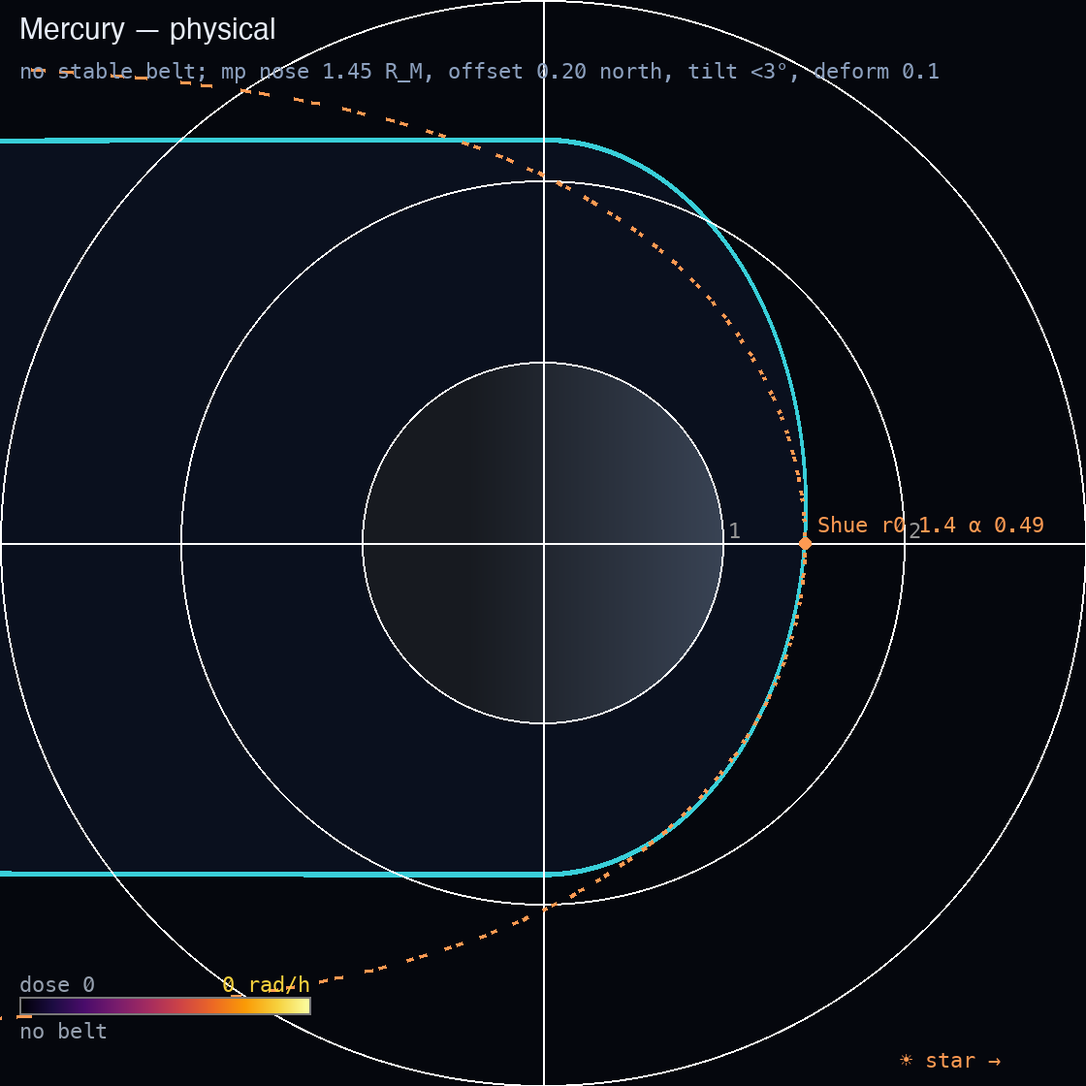
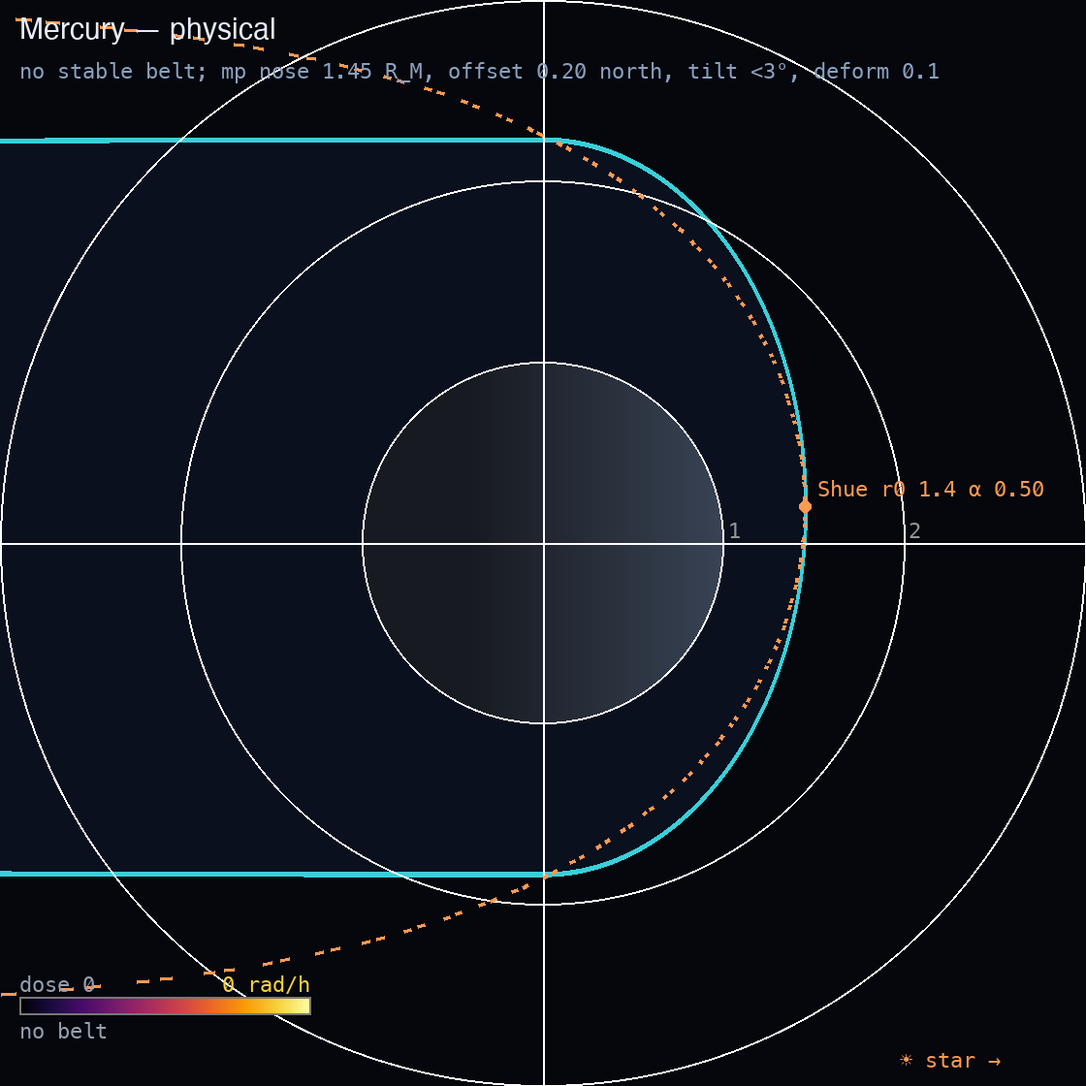
belts: retract the "giants aren't Shue-fitted" claim, ground Jupiter, offset the overlay
Retraction first. Last commit asserted that giant magnetopauses are never fitted
in the Shue form. That is wrong. Arridge 2006 fits Saturn's magnetopause with
exactly the Shue 1997 functional form, and Rutala 2025 (Juno-era, arXiv
2502.09186) fits Jupiter's with a modified one they call S97*, publishing
alpha = 0.28 + 1.08 p_SW and r_SS = 38.0 p_SW^-0.25 R_J in their Table 2.

The correction also reverses my reasoning about the value. I called alpha ~0.26
"backwards" because it is less flared than Earth's 0.58 — but Jupiter's fitted
alpha runs 0.31-0.42 across the observed pressure range, genuinely below Earth's:
a rotation-dominated, plasma-inflated magnetosphere is closer to an axisymmetric
ellipsoid. What was wrong was never the size of the number, only its provenance:
pause_compression is an authoring choice with no fit behind it.

So the methodology doc now carries a fitted-alpha table (Earth, Mercury, Jupiter
with values; Saturn as "fit exists, coefficients paywalled"; ice giants none),
and Jupiter's viewer preset shows the curve at alpha 0.423, the S97* value at our
adopted 63 R_J standoff. The PNG renderer no longer falls back to the compression
conversion at all — no grounded alpha, no curve.

Second request: geomagnetic_offset now also moves the Shue overlay, in both the
renderer and the viewer, so it shares the origin the pause SDF is evaluated from.
Mercury is the visible case (0.20 R_M north), where the reference curve and the
[…]

Changed region(s): [[0.7188, 0.4375, 0.8438, 0.5625], [0.875, 0.4375, 0.9688, 0.5]]

diff --git a/docs/belt-viewer.html b/docs/belt-viewer.html
@@ -319,7 +319,7 @@ const state={
   view:{R:8,tilt:0,z:0,shue:0,shue_r0:0,shue_L:0,offset:0}
 };
 
-const PRESETS={"jupiter_stock": {"label": "목성", "label_en": "Jupiter", "group": "stock", "view": {"R": 16, "tilt": 10.3, "z": 0, "offset": 0}, "inner": {"radiation": 300, "grad": 3.3, "dist": 6.0, "rad": 1.0, "comp": 1.05, "ext": 0.9}, "outer": {"radiation": 50, "grad": 2.2, "dist": 6.5, "rad": 6.5, "comp": 1.05, "ext": 0.85}, "pause": {"radiation": -0.01, "rad": 60, "comp": 1.05, "ext": 0.01, "hscale": 1.02}, "sys": "sol", "sys_label": "태양계", "sys_label_en": "Solar System", "body_key": "jupiter", "variant": "stock", "depth": 0}, "jupiter_phys": {"label": "목성", "label_en": "Jupiter", "group": "phys", "view": {"R": 18, "tilt": 10.3, "z": 0, "offset": 0.1}, "inner": {"radiation": 1500, "grad": 2.24, "dist": 1.3435, "rad": 1.159, "dxy": 0.693, "comp": 1.0, "ext": 1.0, "bdist": 0.0003, "brad": 0.8889, "bdxy": 0.5866}, "outer": {"radiation": 150, "grad": 2.15, "dist": 3.2565, "rad": 3.2269, "dxy": 0.1483, "comp": 1.0, "ext": 0.998, "bdist": 0.0001, "brad": 4.238, "bdxy": 1.85}, "pause": {"radiation": -0.01, "rad": 75.6, "comp": 1.2, "ext": 0.05, "hscale": 1.15}, "sys": "sol", "sys_label": "태양계", "sys_label_en": "Solar System", "body_key": "jupiter", "variant": "phys", "depth": 0}, "saturn_stock": {"label": "토성", "label_en": "Saturn", "group": "stock", "view": {"R": 16, "tilt": 0, "z": 0, "offset": 0}, "inner": {"on": false, "radiation": 0, "dist": 1, "rad": 0.5}, "outer": {"radiation": 150, "grad": 2.2, "dist": 7.0, "rad": 7.0, "comp": 1.05, "ext": 0.95}, "pause": {"radiation": -0.011, "rad": 20, "comp": 1.02, "ext": 0.1, "hscale": 1.0}, "sys": "sol", "sys_label": "태양계", "sys_label_en": "Solar System", "body_key": "saturn", "variant": "stock", "depth": 0}, "saturn_phys": {"label": "토성", "label_en": "Saturn", "group": "phys", "view": {"R": 16, "tilt": 0.01, "z": 0, "offset": 0}, "inner": {"on": false, "radiation": 0, "dist": 1, "rad": 0.5}, "outer": {"radiation": 10, "grad": 2.15, "dist": 2.6173, "rad": 2.3184, "dxy": 0.6735, "comp": 1.0, "ext": 0.998, "bdist": 0.9889, "brad": 0.8883, "bdxy": 0.6616}, "pause": {"radiation": -0.011, "rad": 28.8, "comp": 1.2, "ext": 0.05, "hscale": 1.1}, "sys": "sol", "sys_label": "태양계", "sys_label_en": "Solar System", "body_key": "saturn", "variant": "phys", "depth": 0}, "uranus_stock": {"label": "천왕성", "label_en": "Uranus", "group": "stock", "view": {"R": 22, "tilt": 58.6, "z": 0, "offset": 0.3}, "inner": {"on": false, "radiation": 0, "dist": 1, "rad": 0.5}, "outer": {"radiation": 4, "grad": 2.2, "dist": 7.0, "rad": 7.0, "comp": 1.05, "ext": 0.95}, "pause": {"radiation": -0.01, "rad": 20, "comp": 1.02, "ext": 0.1, "hscale": 1.0}, "sys": "sol", "sys_label": "태양계", "sys_label_en": "Solar System", "body_key": "uranus", "variant": "stock", "depth": 0}, "uranus_phys": {"label": "천왕성", "label_en": "Uranus", "group": "phys", "view": {"R": 22, "tilt": 59, "z": 0, "offset": 0.3}, "inner": {"radiation": 40, "grad": 1.57, "dist": 2.1836, "rad": 1.93, "dxy": 0.6732, "comp": 1.001, "ext": 0.997, "bdist": 0.0563, "brad": 0.8488, "bdxy": 0.3727}, "outer": {"radiation": 8, "grad": 1.85, "dist": 4.3078, "rad": 3.8644, "dxy": 0.6644, "comp": 1.005, "ext": 0.977, "bdist": 2.3256, "brad": 1.9463, "bdxy": 0.7307}, "pause": {"radiation": -0.01, "rad": 21.6, "comp": 1.2, "ext": 0.1, "hscale": 1.1}, "sys": "sol", "sys_label": "태양계", "sys_label_en": "Solar System", "body_key": "uranus", "variant": "phys", "depth": 0}, "neptune_stock": {"label": "해왕성", "label_en": "Neptune", "group": "stock", "view": {"R": 28, "tilt": 47, "z": 0, "offset": 0.55}, "inner": {"on": false, "radiation": 0, "dist": 1, "rad": 0.5}, "outer": {"radiation": 2.5, "grad": 2.2, "dist": 7.0, "rad": 7.0, "comp": 1.05, "ext": 0.95}, "pause": {"radiation": -0.007, "rad": 20, "comp": 1.02, "ext": 0.1, "hscale": 1.0}, "sys": "sol", "sys_label": "태양계", "sys_label_en": "Solar System", "body_key": "neptune", "variant": "stock", "depth": 0}, "neptune_phys": {"label": "해왕성", "label_en": "Neptune", "group": "phys", "view": {"R": 28, "tilt": 47, "z": 0, "offset": 0.55}, "inner": {"radiation": 30, "grad": 2.09, "dist": 2.1836, "rad": 1.93, "dxy": 0.6732, "comp": 1.0, "ext": 0.999, "bdist": 0.0563, "brad": 0.8488, "bdxy": 0.3727}, "outer": {"radiation": 6, "grad": 2.63, "dist": 5.9998, "rad": 5.4076, "dxy": 0.6573, "comp": 1.004, "ext": 0.98, "bdist": 2.5862, "brad": 1.9982, "bdxy": 0.8656}, "pause": {"radiation": -0.007, "rad": 31.8, "comp": 1.2, "ext": 0.08, "hscale": 1.1}, "sys": "sol", "sys_label": "태양계", "sys_label_en": "Solar System", "body_key": "neptune", "variant": "phys", "depth": 0}, "mercury_stock": {"label": "수성", "label_en": "Mercury", "group": "stock", "view": {"R": 3, "tilt": 6, "z": 0, "offset": 0.208}, "inner": {"on": false, "radiation": 0, "dist": 1, "rad": 0.5}, "outer": {"on": false, "radiation": 0, "dist": 1, "rad": 0.5}, "pause": {"radiation": -0.001, "rad": 1.6, "comp": 1.4, "ext": 0.05, "hscale": 1.0, "deform": 0.1}, "sys": "sol", "sys_label": "태양계", "sys_label_en": "Solar System", "body_key": "mercury", "variant": "stock", "depth": 0}, "mercury_phys": {"label": "수성", "label_en": "Mercury", "group": "phys", "view": {"R": 3, "tilt": 2, "z": 0, "offset": 0.2, "shue": 0.5, "shue_r0": 1.45, "shue_L": 0}, "inner": {"on": false, "radiation": 0, "dist": 1, "rad": 0.5}, "outer": {"on": false, "radiation": 0, "dist": 1, "rad": 0.5}, "pause": {"radiation": -0.001, "rad": 2.03, "comp": 1.4, "ext": 0.05, "hscale": 1.0, "deform": 0.1}, "sys": "sol", "sys_label": "태양계", "sys_label_en": "Solar System", "body_key": "mercury", "variant": "phys", "depth": 0, "shue_src": "Winslow 2013 (MESSENGER, Shue 형식 적합: R_ss 1.45 R_M, α 0.5)"}, "earth_stock": {"label": "지구", "label_en": "Earth", "group": "stock", "view": {"R": 12, "tilt": 11, "z": 0, "offset": 0}, "inner": {"radiation": 10.376, "grad": 3.3, "dist": 0.813, "rad": 0.7, "dxy": 0.572, "comp": 1.01, "ext": 1.0, "bdist": 0.0001, "brad": 0.915, "bdxy": 0.5}, "outer": {"radiation": 2.214, "grad": 2.2, "dist": 2.6338, "rad": 2.48, "dxy": 0.7225, "comp": 1.01, "ext": 1.0, "bdist": 1.4412, "brad": 1.4875, "bdxy": 0.7225}, "pause": {"radiation": -0.01, "rad": 15, "comp": 1.5, "ext": 0.075, "hscale": 1.1}, "sys": "sol", "sys_label": "태양계", "sys_label_en": "Solar System", "body_key": "earth", "variant": "stock", "depth": 0}, "earth_phys": {"label": "지구", "label_en": "Earth", "group": "phys", "view": {"R": 12, "tilt": 11, "z": 0, "offset": 0, "shue": 0.58, "shue_r0": 10, "shue_L": 200}, "inner": {"radiation": 10.376, "grad": 2.09, "dist": 0.9413, "rad": 0.7698, "dxy": 0.7314, "comp": 1.001, "ext": 0.999, "bdist": 0.0001, "brad": 1.1836, "bdxy": 1.0505}, "outer": {"radiation": 2.214, "grad": 2.15, "dist": 3.0123, "rad": 2.7018, "dxy": 0.662, "comp": 1.025, "ext": 0.953, "bdist": 1.3175, "brad": 1.1596, "bdxy": 0.6748}, "pause": {"radiation": -0.01, "rad": 15, "comp": 1.5, "ext": 0.075, "hscale": 1.1}, "sys": "sol", "sys_label": "태양계", "sys_label_en": "Solar System", "body_key": "earth", "variant": "phys", "depth": 0, "shue_src": "Shue 1998"}, "ganymede_stock": {"label": "가니메데", "label_en": "Ganymede", "group": "stock", "view": {"R": 4, "tilt": 4, "z": 0, "offset": 0}, "inner": {"radiation": 0.33, "grad": 3.3, "dist": 0.8, "rad": 0.6}, "outer": {"on": false, "radiation": 0, "dist": 1, "rad": 0.5}, "pause": {"on": false, "rad": 5}, "sys": "sol", "sys_label": "태양계", "sys_label_en": "Solar System", "body_key": "ganymede", "variant": "stock", "depth": 0}, "ganymede_phys": {"label": "가니메데", "label_en": "Ganymede", "group": "phys", "view": {"R": 4, "tilt": 4, "z": 0, "offset": 0}, "inner": {"radiation": 0.33, "grad": 2.09, "dist": 0.8758, "rad": 0.7327, "dxy": 0.715, "comp": 1.052, "ext": 0.958, "bdist": 0.0222, "brad": 0.9408, "bdxy": 0.8693}, "outer": {"on": false, "radiation": 0, "dist": 1, "rad": 0.5}, "pause": {"radiation": -0.01, "rad": 2.75, "comp": 1.375, "ext": 0.7, "hscale": 1.0}, "sys": "sol", "sys_label": "태양계", "sys_label_en": "Solar System", "body_key": "ganymede", "variant": "phys", "depth": 0}, "polyphemus": {"label": "Polyphemus", "label_en": "Polyphemus", "group": "nearstars", "sys": "alpha_centauri", "sys_label": "알파 센타우리", "sys_label_en": "Alpha Centauri", "depth": 0, "desig": "Polyphemus", "body_key": "polyphemus", "variant": null, "parent": null, "inner": {"dist": 1.3793, "rad": 1.159, "dxy": 0.7142, "comp": 1.0, "ext": 1.0, "bdist": 0.2656, "brad": 0.7491, "bdxy": 0.6384, "radiation": 300, "grad": 1.65}, "outer": {"dist": 4.2824, "rad": 3.8588, "dxy": 0.659, "comp": 1.002, "ext": 0.989, "bdist": 2.0738, "brad": 1.6687, "bdxy": 0.8079, "radiation": 30, "grad": 2.15}, "pause": {"on": true, "rad": 28.2, "comp": 1.2, "ext": 0.05, "hscale": 1.1, "deform": 0, "dscale": 1, "radiation": -0.01}, "view": {"R": 12, "tilt": 10, "z": 0, "offset": 0}}, "pandora": {"label": "Pandora", "label_en": "Pandora", "group": "nearstars", "sys": "alpha_centauri", "sys_label": "알파 센타우리", "sys_label_en": "Alpha Centauri", "depth": 1, "desig": "Alpha Centauri A b III", "body_key": "pandora", "variant": null, "parent": "Alpha Centauri A b", "inner": {"dist": 1.0193, "rad": 0.8489, "dxy": 0.7196, "comp": 1.015, "ext": 0.961, "bdist": 0.0971, "brad": 0.9349, "bdxy": 0.8829, "radiation": 4.0, "grad": 2.09}, "outer": {"on": false, "radiation": 0, "dist": 1, "rad": 0.5}, "pause": {"on": true, "rad": 2.99, "comp": 1.15, "ext": 0.6, "hscale": 1, "deform": 0, "dscale": 1, "radiation": -0.01}, "view": {"R": 5, "tilt": 10, "z": 0, "offset": 0}}, "proxima cen c": {"label": "Proxima Cen c", "label_en": "Proxima Cen c", "group": "nearstars", "sys": "proxima_cen", "sys_label": "프록시마 센타우리", "sys_label_en": "Proxima Centauri", "depth": 0, "desig": "Proxima Centauri c", "body_key": "proxima_cen_c", "variant": null, "parent": null, "inner": {"dist": 1.5, "rad": 0.86, "dxy": 0.66, "comp": 1.002, "ext": 0.997, "bdist": 0.0001, "brad": 1.0, "bdxy": 0.5, "deform": 0.115, "radiation": 8.0, "grad": 2.09}, "outer": {"dist": 2.8, "rad": 2.5, "dxy": 0.66, "comp": 1.01, "ext": 0.979, "bdist": 1.54, "brad": 1.42, "bdxy": 0.66, "deform": 0.5, "radiation": 1.2, "grad": 2.15}, "pause": {"on": true, "rad": 16.84, "comp": 1.414, "ext": 0.135, "hscale": 1.0, "deform": 0, "dscale": 1, "radiation": -0.01}, "view": {"R": 8, "tilt": 50, "z": 0, "offset": 0.4, "shue": 0.5, "shue_r0": 11.905, "shue_L": 125}}, "proxima_cen_d": {"label": "Proxima Cen d", "label_en": "Proxima Cen d", "group": "nearstars", "view": {"R": 12, "tilt": 10, "z": 0, "offset": 0}, "inner": {"radiation": 5000, "grad": 2.09, "dist": 0.9413, "rad": 0.7698, "dxy": 0.7314, "comp": 1.002, "ext": 0.996, "bdist": 0.0001, "brad": 1.0, "bdxy": 1.0}, "outer": {"radiation": 1000, "grad": 2.15, "dist": 2.7, "rad": 2.3, "dxy": 0.662, "comp": 1.053, "ext": 0.901, "bdist": 1.2, "brad": 1.0, "bdxy": 0.6748}, "pause": {"radiation": -0.01, "rad": 10.5, "comp": 1.5, "ext": 0.075, "hscale": 1.1}, "sys": "proxima_cen", "sys_label": "프록시마 센타우리", "sys_label_en": "Proxima Centauri", "body_key": "proxima_cen_d", "variant": null, "depth": 0, "desig": "Proxima Centauri d"}, "shueDemo": {"label": "Shue 데모", "label_en": "Shue demo", "group": "demo", "view": {"R": 210, "tilt": 0, "z": 0, "offset": 0, "shue": 0.58}, "inner": {"radiation": 10.376, "grad": 2.09, "dist": 0.9413, "rad": 0.7698, "dxy": 0.7314, "comp": 1.001, "ext": 0.999, "bdist": 0.0001, "brad": 1.1836, "bdxy": 1.0505}, "outer": {"radiation": 2.214, "grad": 2.15, "dist": 3.0123, "rad": 2.7018, "dxy": 0.662, "comp": 1.025, "ext": 0.953, "bdist": 1.3175, "brad": 1.1596, "bdxy": 0.6748}, "pause": {"radiation": -0.01, "rad": 15, "comp": 1.5, "ext": 0.075, "hscale": 1.1, "alpha": 0.35}, "sys": "demo", "sys_label": "데모", "sys_label_en": "Demo", "depth": 0, "body_key": "shue_demo", "variant": null}};
+const PRESETS={"jupiter_stock": {"label": "목성", "label_en": "Jupiter", "group": "stock", "view": {"R": 16, "tilt": 10.3, "z": 0, "offset": 0}, "inner": {"radiation": 300, "grad": 3.3, "dist": 6.0, "rad": 1.0, "comp": 1.05, "ext": 0.9}, "outer": {"radiation": 50, "grad": 2.2, "dist": 6.5, "rad": 6.5, "comp": 1.05, "ext": 0.85}, "pause": {"radiation": -0.01, "rad": 60, "comp": 1.05, "ext": 0.01, "hscale": 1.02}, "sys": "sol", "sys_label": "태양계", "sys_label_en": "Solar System", "body_key": "jupiter", "variant": "stock", "depth": 0}, "jupiter_phys": {"label": "목성", "label_en": "Jupiter", "group": "phys", "view": {"R": 18, "tilt": 10.3, "z": 0, "offset": 0.1, "shue": 0.423, "shue_r0": 63, "shue_L": 0}, "inner": {"radiation": 1500, "grad": 2.24, "dist": 1.3435, "rad": 1.159, "dxy": 0.693, "comp": 1.0, "ext": 1.0, "bdist": 0.0003, "brad": 0.8889, "bdxy": 0.5866}, "outer": {"radiation": 150, "grad": 2.15, "dist": 3.2565, "rad": 3.2269, "dxy": 0.1483, "comp": 1.0, "ext": 0.998, "bdist": 0.0001, "brad": 4.238, "bdxy": 1.85}, "pause": {"radiation": -0.01, "rad": 75.6, "comp": 1.2, "ext": 0.05, "hscale": 1.15, "shue_alpha": 0.423, "shue_nose": 63}, "sys": "sol", "sys_label": "태양계", "sys_label_en": "Solar System", "body_key": "jupiter", "variant": "phys", "depth": 0, "shue_src": "Rutala 2025 S97* (α=0.28+1.08·p_SW, 노즈 63 R_J ⇒ p 0.132 nPa)"}, "saturn_stock": {"label": "토성", "label_en": "Saturn", "group": "stock", "view": {"R": 16, "tilt": 0, "z": 0, "offset": 0}, "inner": {"on": false, "radiation": 0, "dist": 1, "rad": 0.5}, "outer": {"radiation": 150, "grad": 2.2, "dist": 7.0, "rad": 7.0, "comp": 1.05, "ext": 0.95}, "pause": {"radiation": -0.011, "rad": 20, "comp": 1.02, "ext": 0.1, "hscale": 1.0}, "sys": "sol", "sys_label": "태양계", "sys_label_en": "Solar System", "body_key": "saturn", "variant": "stock", "depth": 0}, "saturn_phys": {"label": "토성", "label_en": "Saturn", "group": "phys", "view": {"R": 16, "tilt": 0.01, "z": 0, "offset": 0}, "inner": {"on": false, "radiation": 0, "dist": 1, "rad": 0.5}, "outer": {"radiation": 10, "grad": 2.15, "dist": 2.6173, "rad": 2.3184, "dxy": 0.6735, "comp": 1.0, "ext": 0.998, "bdist": 0.9889, "brad": 0.8883, "bdxy": 0.6616}, "pause": {"radiation": -0.011, "rad": 28.8, "comp": 1.2, "ext": 0.05, "hscale": 1.1}, "sys": "sol", "sys_label": "태양계", "sys_label_en": "Solar System", "body_key": "saturn", "variant": "phys", "depth": 0}, "uranus_stock": {"label": "천왕성", "label_en": "Uranus", "group": "stock", "view": {"R": 22, "tilt": 58.6, "z": 0, "offset": 0.3}, "inner": {"on": false, "radiation": 0, "dist": 1, "rad": 0.5}, "outer": {"radiation": 4, "grad": 2.2, "dist": 7.0, "rad": 7.0, "comp": 1.05, "ext": 0.95}, "pause": {"radiation": -0.01, "rad": 20, "comp": 1.02, "ext": 0.1, "hscale": 1.0}, "sys": "sol", "sys_label": "태양계", "sys_label_en": "Solar System", "body_key": "uranus", "variant": "stock", "depth": 0}, "uranus_phys": {"label": "천왕성", "label_en": "Uranus", "group": "phys", "view": {"R": 22, "tilt": 59, "z": 0, "offset": 0.3}, "inner": {"radiation": 40, "grad": 1.57, "dist": 2.1836, "rad": 1.93, "dxy": 0.6732, "comp": 1.001, "ext": 0.997, "bdist": 0.0563, "brad": 0.8488, "bdxy": 0.3727}, "outer": {"radiation": 8, "grad": 1.85, "dist": 4.3078, "rad": 3.8644, "dxy": 0.6644, "comp": 1.005, "ext": 0.977, "bdist": 2.3256, "brad": 1.9463, "bdxy": 0.7307}, "pause": {"radiation": -0.01, "rad": 21.6, "comp": 1.2, "ext": 0.1, "hscale": 1.1}, "sys": "sol", "sys_label": "태양계", "sys_label_en": "Solar System", "body_key": "uranus", "variant": "phys", "depth": 0}, "neptune_stock": {"label": "해왕성", "label_en": "Neptune", "group": "stock", "view": {"R": 28, "tilt": 47, "z": 0, "offset": 0.55}, "inner": {"on": false, "radiation": 0, "dist": 1, "rad": 0.5}, "outer": {"radiation": 2.5, "grad": 2.2, "dist": 7.0, "rad": 7.0, "comp": 1.05, "ext": 0.95}, "pause": {"radiation": -0.007, "rad": 20, "comp": 1.02, "ext": 0.1, "hscale": 1.0}, "sys": "sol", "sys_label": "태양계", "sys_label_en": "Solar System", "body_key": "neptune", "variant": "stock", "depth": 0}, "neptune_phys": {"label": "해왕성", "label_en": "Neptune", "group": "phys", "view": {"R": 28, "tilt": 47, "z": 0, "offset": 0.55}, "inner": {"radiation": 30, "grad": 2.09, "dist": 2.1836, "rad": 1.93, "dxy": 0.6732, "comp": 1.0, "ext": 0.999, "bdist": 0.0563, "brad": 0.8488, "bdxy": 0.3727}, "outer": {"radiation": 6, "grad": 2.63, "dist": 5.9998, "rad": 5.4076, "dxy": 0.6573, "comp": 1.004, "ext": 0.98, "bdist": 2.5862, "brad": 1.9982, "bdxy": 0.8656}, "pause": {"radiation": -0.007, "rad": 31.8, "comp": 1.2, "ext": 0.08, "hscale": 1.1}, "sys": "sol", "sys_label": "태양계", "sys_label_en": "Solar System", "body_key": "neptune", "variant": "phys", "depth": 0}, "mercury_stock": {"label": "수성", "label_en": "Mercury", "group": "stock", "view": {"R": 3, "tilt": 6, "z": 0, "offset": 0.208}, "inner": {"on": false, "radiation": 0, "dist": 1, "rad": 0.5}, "outer": {"on": false, "radiation": 0, "dist": 1, "rad": 0.5}, "pause": {"radiation": -0.001, "rad": 1.6, "comp": 1.4, "ext": 0.05, "hscale": 1.0, "deform": 0.1}, "sys": "sol", "sys_label": "태양계", "sys_label_en": "Solar System", "body_key": "mercury", "variant": "stock", "depth": 0}, "mercury_phys": {"label": "수성", "label_en": "Mercury", "group": "phys", "view": {"R": 3, "tilt": 2, "z": 0, "offset": 0.2, "shue": 0.5, "shue_r0": 1.45, "shue_L": 0}, "inner": {"on": false, "radiation": 0, "dist": 1, "rad": 0.5}, "outer": {"on": false, "radiation": 0, "dist": 1, "rad": 0.5}, "pause": {"radiation": -0.001, "rad": 2.03, "comp": 1.4, "ext": 0.05, "hscale": 1.0, "deform": 0.1, "shue_alpha": 0.5, "shue_nose": 1.45}, "sys": "sol", "sys_label": "태양계", "sys_label_en": "Solar System", "body_key": "mercury", "variant": "phys", "depth": 0, "shue_src": "Winslow 2013 (MESSENGER 통과 적합: R_ss 1.45 R_M, α 0.5)"}, "earth_stock": {"label": "지구", "label_en": "Earth", "group": "stock", "view": {"R": 12, "tilt": 11, "z": 0, "offset": 0}, "inner": {"radiation": 10.376, "grad": 3.3, "dist": 0.813, "rad": 0.7, "dxy": 0.572, "comp": 1.01, "ext": 1.0, "bdist": 0.0001, "brad": 0.915, "bdxy": 0.5}, "outer": {"radiation": 2.214, "grad": 2.2, "dist": 2.6338, "rad": 2.48, "dxy": 0.7225, "comp": 1.01, "ext": 1.0, "bdist": 1.4412, "brad": 1.4875, "bdxy": 0.7225}, "pause": {"radiation": -0.01, "rad": 15, "comp": 1.5, "ext": 0.075, "hscale": 1.1}, "sys": "sol", "sys_label": "태양계", "sys_label_en": "Solar System", "body_key": "earth", "variant": "stock", "depth": 0}, "earth_phys": {"label": "지구", "label_en": "Earth", "group": "phys", "view": {"R": 12, "tilt": 11, "z": 0, "offset": 0, "shue": 0.58, "shue_r0": 10, "shue_L": 200}, "inner": {"radiation": 10.376, "grad": 2.09, "dist": 0.9413, "rad": 0.7698, "dxy": 0.7314, "comp": 1.001, "ext": 0.999, "bdist": 0.0001, "brad": 1.1836, "bdxy": 1.0505}, "outer": {"radiation": 2.214, "grad": 2.15, "dist": 3.0123, "rad": 2.7018, "dxy": 0.662, "comp": 1.025, "ext": 0.953, "bdist": 1.3175, "brad": 1.1596, "bdxy": 0.6748}, "pause": {"radiation": -0.01, "rad": 15, "comp": 1.5, "ext": 0.075, "hscale": 1.1, "shue_alpha": 0.58, "shue_nose": 10, "shue_tail": 200}, "sys": "sol", "sys_label": "태양계", "sys_label_en": "Solar System", "body_key": "earth", "variant": "phys", "depth": 0, "shue_src": "Shue 1998"}, "ganymede_stock": {"label": "가니메데", "label_en": "Ganymede", "group": "stock", "view": {"R": 4, "tilt": 4, "z": 0, "offset": 0}, "inner": {"radiation": 0.33, "grad": 3.3, "dist": 0.8, "rad": 0.6}, "outer": {"on": false, "radiation": 0, "dist": 1, "rad": 0.5}, "pause": {"on": false, "rad": 5}, "sys": "sol", "sys_label": "태양계", "sys_label_en": "Solar System", "body_key": "ganymede", "variant": "stock", "depth": 0}, "ganymede_phys": {"label": "가니메데", "label_en": "Ganymede", "group": "phys", "view": {"R": 4, "tilt": 4, "z": 0, "offset": 0}, "inner": {"radiation": 0.33, "grad": 2.09, "dist": 0.8758, "rad": 0.7327, "dxy": 0.715, "comp": 1.052, "ext": 0.958, "bdist": 0.0222, "brad": 0.9408, "bdxy": 0.8693}, "outer": {"on": false, "radiation": 0, "dist": 1, "rad": 0.5}, "pause": {"radiation": -0.01, "rad": 2.75, "comp": 1.375, "ext": 0.7, "hscale": 1.0}, "sys": "sol", "sys_label": "태양계", "sys_label_en": "Solar System", "body_key": "ganymede", "variant": "phys", "depth": 0}, "polyphemus": {"label": "Polyphemus", "label_en": "Polyphemus", "group": "nearstars", "sys": "alpha_centauri", "sys_label": "알파 센타우리", "sys_label_en": "Alpha Centauri", "depth": 0, "desig": "Polyphemus", "body_key": "polyphemus", "variant": null, "parent": null, "inner": {"dist": 1.3793, "rad": 1.159, "dxy": 0.7142, "comp": 1.0, "ext": 1.0, "bdist": 0.2656, "brad": 0.7491, "bdxy": 0.6384, "radiation": 300, "grad": 1.65}, "outer": {"dist": 4.2824, "rad": 3.8588, "dxy": 0.659, "comp": 1.002, "ext": 0.989, "bdist": 2.0738, "brad": 1.6687, "bdxy": 0.8079, "radiation": 30, "grad": 2.15}, "pause": {"on": true, "rad": 28.2, "comp": 1.2, "ext": 0.05, "hscale": 1.1, "deform": 0, "dscale": 1, "radiation": -0.01}, "view": {"R": 12, "tilt": 10, "z": 0, "offset": 0}}, "pandora": {"label": "Pandora", "label_en": "Pandora", "group": "nearstars", "sys": "alpha_centauri", "sys_label": "알파 센타우리", "sys_label_en": "Alpha Centauri", "depth": 1, "desig": "Alpha Centauri A b III", "body_key": "pandora", "variant": null, "parent": "Alpha Centauri A b", "inner": {"dist": 1.0193, "rad": 0.8489, "dxy": 0.7196, "comp": 1.015, "ext": 0.961, "bdist": 0.0971, "brad": 0.9349, "bdxy": 0.8829, "radiation": 4.0, "grad": 2.09}, "outer": {"on": false, "radiation": 0, "dist": 1, "rad": 0.5}, "pause": {"on": true, "rad": 2.99, "comp": 1.15, "ext": 0.6, "hscale": 1, "deform": 0, "dscale": 1, "radiation": -0.01}, "view": {"R": 5, "tilt": 10, "z": 0, "offset": 0}}, "proxima cen c": {"label": "Proxima Cen c", "label_en": "Proxima Cen c", "group": "nearstars", "sys": "proxima_cen", "sys_label": "프록시마 센타우리", "sys_label_en": "Proxima Centauri", "depth": 0, "desig": "Proxima Centauri c", "body_key": "proxima_cen_c", "variant": null, "parent": null, "inner": {"dist": 1.5, "rad": 0.86, "dxy": 0.66, "comp": 1.002, "ext": 0.997, "bdist": 0.0001, "brad": 1.0, "bdxy": 0.5, "deform": 0.115, "radiation": 8.0, "grad": 2.09}, "outer": {"dist": 2.8, "rad": 2.5, "dxy": 0.66, "comp": 1.01, "ext": 0.979, "bdist": 1.54, "brad": 1.42, "bdxy": 0.66, "deform": 0.5, "radiation": 1.2, "grad": 2.15}, "pause": {"on": true, "rad": 16.84, "comp": 1.414, "ext": 0.135, "hscale": 1.0, "deform": 0, "dscale": 1, "radiation": -0.01}, "view": {"R": 8, "tilt": 50, "z": 0, "offset": 0.4, "shue": 0.5, "shue_r0": 11.905, "shue_L": 125}}, "proxima_cen_d": {"label": "Proxima Cen d", "label_en": "Proxima Cen d", "group": "nearstars", "view": {"R": 12, "tilt": 10, "z": 0, "offset": 0}, "inner": {"radiation": 5000, "grad": 2.09, "dist": 0.9413, "rad": 0.7698, "dxy": 0.7314, "comp": 1.002, "ext": 0.996, "bdist": 0.0001, "brad": 1.0, "bdxy": 1.0}, "outer": {"radiation": 1000, "grad": 2.15, "dist": 2.7, "rad": 2.3, "dxy": 0.662, "comp": 1.053, "ext": 0.901, "bdist": 1.2, "brad": 1.0, "bdxy": 0.6748}, "pause": {"radiation": -0.01, "rad": 10.5, "comp": 1.5, "ext": 0.075, "hscale": 1.1}, "sys": "proxima_cen", "sys_label": "프록시마 센타우리", "sys_label_en": "Proxima Centauri", "body_key": "proxima_cen_d", "variant": null, "depth": 0, "desig": "Proxima Centauri d"}, "shueDemo": {"label": "Shue 데모", "label_en": "Shue demo", "group": "demo", "view": {"R": 210, "tilt": 0, "z": 0, "offset": 0, "shue": 0.58}, "inner": {"radiation": 10.376, "grad": 2.09, "dist": 0.9413, "rad": 0.7698, "dxy": 0.7314, "comp": 1.001, "ext": 0.999, "bdist": 0.0001, "brad": 1.1836, "bdxy": 1.0505}, "outer": {"radiation": 2.214, "grad": 2.15, "dist": 3.0123, "rad": 2.7018, "dxy": 0.662, "comp": 1.025, "ext": 0.953, "bdist": 1.3175, "brad": 1.1596, "bdxy": 0.6748}, "pause": {"radiation": -0.01, "rad": 15, "comp": 1.5, "ext": 0.075, "hscale": 1.1, "shue_alpha": 0.58, "shue_nose": 10, "shue_tail": 200, "alpha": 0.35}, "sys": "demo", "sys_label": "데모", "sys_label_en": "Demo", "depth": 0, "body_key": "shue_demo", "variant": null}};
 
 // ---- control definitions ----
 const F=(k,label,min,max,step,label_en)=>({k,label,min,max,step,label_en});
@@ -594,6 +594,7 @@ function render(){
     // 고정 앵커(보드 ⚗ pause_nose/tail)가 있으면 그 물리값 사용 — pause 슬라이더를 움직여도 Shue 기준은 불변
     const fixed=state.view.shue_r0>0;
     const nose=fixed?state.view.shue_r0:P.rad/P.comp-(P.off||0);
+    const oy=c-(state.view.offset||0)*ppr;   // 계면 SDF 와 같은 원점 — geomagnetic_offset 적용
     if(nose>0.3){
       const L=(fixed&&state.view.shue_L>0)?state.view.shue_L:P.rad/P.ext+(P.off||0);
       const m=1;                          // 테이퍼 m=1 고정 (기저형, 노브 없음 — 오너 확정 2026-07-23)
@@ -611,7 +612,7 @@ function render(){
         for(let deg=-150;deg<=150;deg+=2){
           const th=deg*Math.PI/180;
           const rr2=nose*Math.pow(2/(1+Math.cos(th)),alS);
-          const px2=c+rr2*Math.cos(th)*ppr, py2=c-rr2*Math.sin(th)*ppr;
+          const px2=c+rr2*Math.cos(th)*ppr, py2=oy-rr2*Math.sin(th)*ppr;
           if(f2){ctx.moveTo(px2,py2);f2=false;} else ctx.lineTo(px2,py2);
         }
         ctx.stroke();
@@ -625,13 +626,13 @@ function render(){
           const cu=Math.cos(deg*Math.PI/360);          // cos(θ/2)
           const rr2=nose*Math.pow((1+eps)/(eps+Math.pow(cu*cu,m)),alS/m);
           const th=deg*Math.PI/180;
-          const px2=c+rr2*Math.cos(th)*ppr, py2=c-rr2*Math.sin(th)*ppr;
+          const px2=c+rr2*Math.cos(th)*ppr, py2=oy-rr2*Math.sin(th)*ppr;
           if(f2){ctx.moveTo(px2,py2);f2=false;} else ctx.lineTo(px2,py2);
         }
         ctx.closePath(); ctx.fill(); ctx.stroke(); ctx.setLineDash([]);
         ctx.fillStyle='rgba(255,154,82,.95)';
-        ctx.beginPath(); ctx.arc(c+nose*ppr,c,2.5,0,7); ctx.fill();
-        ctx.fillText(t('shueSoft')+'  α='+alS.toFixed(2)+' r0='+nose.toFixed(1)+' L='+L.toFixed(0)+(fixed?t('boardFix'):t('pauseLink'))+' ε='+eps.toFixed(4), c+nose*ppr+5, c-6);
+        ctx.beginPath(); ctx.arc(c+nose*ppr,oy,2.5,0,7); ctx.fill();
+        ctx.fillText(t('shueSoft')+'  α='+alS.toFixed(2)+' r0='+nose.toFixed(1)+' L='+L.toFixed(0)+(fixed?t('boardFix'):t('pauseLink'))+' ε='+eps.toFixed(4), c+nose*ppr+5, oy-6);
         ctx.fillStyle='rgba(255,255,255,.5)';
         ctx.fillText(t('shueDash'), c-L*ppr*0.9, c+16);
       } else {
@@ -642,12 +643,12 @@ function render(){
         for(let deg=-152;deg<=152;deg+=2){
           const th=deg*Math.PI/180;
           const rr2=nose*Math.pow(2/(1+Math.cos(th)),alS);
-          const px2=c+rr2*Math.cos(th)*ppr, py2=c-rr2*Math.sin(th)*ppr;
+          const px2=c+rr2*Math.cos(th)*ppr, py2=oy-rr2*Math.sin(th)*ppr;
           if(first){ctx.moveTo(px2,py2);first=false;} else ctx.lineTo(px2,py2);
         }
         ctx.stroke(); ctx.setLineDash([]);
         ctx.fillStyle='rgba(255,154,82,.9)';
-        ctx.beginPath(); ctx.arc(c+nose*ppr,c,2.5,0,7); ctx.fill();
+        ctx.beginPath(); ctx.arc(c+nose*ppr,oy,2.5,0,7); ctx.fill();
         ctx.fillText('Shue α='+alS.toFixed(2)+' (r0='+nose.toFixed(1)+')', c+nose*ppr+5, c-6);
       }
     }

diff --git a/scripts/viz/belt_viewer_template.html b/scripts/viz/belt_viewer_template.html
@@ -594,6 +594,7 @@ function render(){
     // 고정 앵커(보드 ⚗ pause_nose/tail)가 있으면 그 물리값 사용 — pause 슬라이더를 움직여도 Shue 기준은 불변
     const fixed=state.view.shue_r0>0;
     const nose=fixed?state.view.shue_r0:P.rad/P.comp-(P.off||0);
+    const oy=c-(state.view.offset||0)*ppr;   // 계면 SDF 와 같은 원점 — geomagnetic_offset 적용
     if(nose>0.3){
       const L=(fixed&&state.view.shue_L>0)?state.view.shue_L:P.rad/P.ext+(P.off||0);
       const m=1;                          // 테이퍼 m=1 고정 (기저형, 노브 없음 — 오너 확정 2026-07-23)
@@ -611,7 +612,7 @@ function render(){
         for(let deg=-150;deg<=150;deg+=2){
           const th=deg*Math.PI/180;
           const rr2=nose*Math.pow(2/(1+Math.cos(th)),alS);
-          const px2=c+rr2*Math.cos(th)*ppr, py2=c-rr2*Math.sin(th)*ppr;
+          const px2=c+rr2*Math.cos(th)*ppr, py2=oy-rr2*Math.sin(th)*ppr;
           if(f2){ctx.moveTo(px2,py2);f2=false;} else ctx.lineTo(px2,py2);
         }
         ctx.stroke();
@@ -625,13 +626,13 @@ function render(){
           const cu=Math.cos(deg*Math.PI/360);          // cos(θ/2)
           const rr2=nose*Math.pow((1+eps)/(eps+Math.pow(cu*cu,m)),alS/m);
           const th=deg*Math.PI/180;
-          const px2=c+rr2*Math.cos(th)*ppr, py2=c-rr2*Math.sin(th)*ppr;
+          const px2=c+rr2*Math.cos(th)*ppr, py2=oy-rr2*Math.sin(th)*ppr;
           if(f2){ctx.moveTo(px2,py2);f2=false;} else ctx.lineTo(px2,py2);
         }
         ctx.closePath(); ctx.fill(); ctx.stroke(); ctx.setLineDash([]);
         ctx.fillStyle='rgba(255,154,82,.95)';
-        ctx.beginPath(); ctx.arc(c+nose*ppr,c,2.5,0,7); ctx.fill();
-        ctx.fillText(t('shueSoft')+'  α='+alS.toFixed(2)+' r0='+nose.toFixed(1)+' L='+L.toFixed(0)+(fixed?t('boardFix'):t('pauseLink'))+' ε='+eps.toFixed(4), c+nose*ppr+5, c-6);
+        ctx.beginPath(); ctx.arc(c+nose*ppr,oy,2.5,0,7); ctx.fill();
+        ctx.fillText(t('shueSoft')+'  α='+alS.toFixed(2)+' r0='+nose.toFixed(1)+' L='+L.toFixed(0)+(fixed?t('boardFix'):t('pauseLink'))+' ε='+eps.toFixed(4), c+nose*ppr+5, oy-6);
         ctx.fillStyle='rgba(255,255,255,.5)';
         ctx.fillText(t('shueDash'), c-L*ppr*0.9, c+16);
       } else {
@@ -642,12 +643,12 @@ function render(){
         for(let deg=-152;deg<=152;deg+=2){
           const th=deg*Math.PI/180;
           const rr2=nose*Math.pow(2/(1+Math.cos(th)),alS);
-          const px2=c+rr2*Math.cos(th)*ppr, py2=c-rr2*Math.sin(th)*ppr;
+          const px2=c+rr2*Math.cos(th)*ppr, py2=oy-rr2*Math.sin(th)*ppr;
           if(first){ctx.moveTo(px2,py2);first=false;} else ctx.lineTo(px2,py2);
         }
         ctx.stroke(); ctx.setLineDash([]);
         ctx.fillStyle='rgba(255,154,82,.9)';
-        ctx.beginPath(); ctx.arc(c+nose*ppr,c,2.5,0,7); ctx.fill();
+        ctx.beginPath(); ctx.arc(c+nose*ppr,oy,2.5,0,7); ctx.fill();
         ctx.fillText('Shue α='+alS.toFixed(2)+' (r0='+nose.toFixed(1)+')', c+nose*ppr+5, c-6);
       }
     }

diff --git a/scripts/viz/render_belts_bodies.py b/scripts/viz/render_belts_bodies.py
@@ -16,7 +16,10 @@ BODIES={
    # (배포 1.05/0.9는 연출이었음). grad 내대: 피크 1.5-2 R_J (Divine & Garrett 1983).
    'inner':{'radiation':1500,'grad':2.24,'dist':1.3435,'rad':1.159,'dxy':0.693,'comp':1.0,'ext':1.0,'bdist':3e-4,'brad':0.8889,'bdxy':0.5866},
    'outer':{'radiation':150,'grad':2.15,'dist':3.2565,'rad':3.2269,'dxy':0.1483,'comp':1.0,'ext':0.998,'bdist':1e-4,'brad':4.238,'bdxy':1.85},  # 자기원반=적도 전류시트(렌즈형, 반두께 3=Khurana; 3-16은 프레임 절단)
-   'pause':{'radiation':-0.01,'rad':75.6,'comp':1.2,'ext':0.05,'hscale':1.15}},  # nose 63 R_J (Joy 2002)
+   # Rutala 2025 S97* 적합: α = 0.28 + 1.08·p_SW, r_SS = 38.0·p_SW^-0.25 [R_J].
+   # 노즈 63 R_J(Joy 2002 압축 상태) ⇒ p_SW 0.132 nPa ⇒ α 0.423.
+   'pause':{'radiation':-0.01,'rad':75.6,'comp':1.2,'ext':0.05,'hscale':1.15,
+            'shue_alpha':0.423,'shue_nose':63}},  # nose 63 R_J (Joy 2002)
 
  # ---- SATURN: 스톡=외대만, 물리=고리가 내대 소거→외대만(축대칭), CRAND 약함 ----
  # 스톡 값 검증: KSP-RO/ROKerbalism Support/RSS.cfg `saturn` 모델 (2026-07-24 재검증)
@@ -56,7 +59,9 @@ BODIES={
  'mercury_stock':{'title':'Mercury — stock (ROKerbalism)','sub':'no belt; pause 1.6/1.4 (nose 1.14), pole_lat 96, offset 0.208, deform 0.1','R':3,'tilt':6,'offset':0.208,
    'pause':{'radiation':-0.001,'rad':1.6,'comp':1.4,'ext':0.05,'hscale':1.0,'deform':0.1}},  # pause_deform=0.1 그대로 반영 (2026-08-04 누락 수정): 다중극 경계의 비축대칭 로브
  'mercury_phys':{'title':'Mercury — physical','sub':'no stable belt; mp nose 1.45 R_M, offset 0.20 north, tilt <3°, deform 0.1','R':3,'tilt':2,'offset':0.20,
-   'pause':{'radiation':-0.001,'rad':2.03,'comp':1.4,'ext':0.05,'hscale':1.0,'deform':0.1}},  # nose 1.45 R_M (Winslow 2013); deform 유지 — 실제 자기장이 offset dipole + 고차 다중극
+   # Winslow 2013 은 MESSENGER 통과를 Shue 형식으로 적합했다: R_ss 1.45 R_M, flaring α 0.5
+   'pause':{'radiation':-0.001,'rad':2.03,'comp':1.4,'ext':0.05,'hscale':1.0,'deform':0.1,
+            'shue_alpha':0.5,'shue_nose':1.45}},  # nose 1.45 R_M (Winslow 2013); deform 유지 — 실제 자기장이 offset dipole + 고차 다중극
 
  # ---- EARTH: 앵커 (스톡=튜닝 모델) vs 물리 (standoff 10, 외대 heart L~4.5) ----
  'earth_stock':{'title':'Earth — stock (ROKerbalism)','sub':'inner 0.81/0.70 (D), outer 2.63/2.48 (O), pause 15','R':12,'tilt':11,
@@ -68,7 +73,9 @@ BODIES={
    # comp/ext = pause 비대칭 × eps=(r_core/nose)³. 아래 IoU 수치는 L-셸 피팅(dist/rad/dxy/border) 기준이라 무영향.
    'inner':{'radiation':10.376,'grad':2.09,'dist':0.9413,'rad':0.7698,'dxy':0.7314,'comp':1.001,'ext':0.999,'bdist':1e-4,'brad':1.1836,'bdxy':1.0505},  # 내대 하한=1000km(loss-cone 고갈 경계). grad: 피크 L1.5(Ginet 2013)
    'outer':{'radiation':2.214,'grad':2.15,'dist':3.0123,'rad':2.7018,'dxy':0.662,'comp':1.025,'ext':0.953,'bdist':1.3175,'brad':1.1596,'bdxy':0.6748},  # L3-7, 보더 카브=슬롯. grad: heart L4.5 → 배포 2.2 복원
-   'pause':{'radiation':-0.01,'rad':15,'comp':1.5,'ext':0.075,'hscale':1.1}},  # nose 15/1.5=10 R_E — 스톡과 동일(스톡이 이미 정확)
+   # Shue 기준선: 적합값이 있는 바디에만 넣는다(Shue 1998 지구 α 0.58, 노즈 10 R_E, 꼬리 관측 ~200)
+   'pause':{'radiation':-0.01,'rad':15,'comp':1.5,'ext':0.075,'hscale':1.1,
+            'shue_alpha':0.58,'shue_nose':10,'shue_tail':200}},  # nose 15/1.5=10 R_E — 스톡과 동일(스톡이 이미 정확)
 
  # ---- GANYMEDE: 약장 임베디드 미니자기권 (Kivelson 2002: 719nT, standoff ~2 R_G, open caps) ----
  'ganymede_stock':{'title':'Ganymede — stock (ROKerbalism)','sub':'inner 0.8/0.6, no pause defined','R':4,'tilt':4,

diff --git a/scripts/viz/render_belts.py b/scripts/viz/render_belts.py
@@ -79,12 +79,12 @@ def render(body, out, size=1120, z=0.0):
     dr.line([0,c,size,c],fill=(255,255,255,26),width=S(1)); dr.line([c,0,c,size],fill=(255,255,255,26),width=S(1))
     # ── Shue 자기권계면 기준선 (주황 파선) — 항성정렬 프레임, 연화형 폐곡선 ──
     #    r(θ) = r0·((1+ε)/(ε+cos²(θ/2)))^α,  ε = 1/((L/r0)^(1/α)−1);  ε→0이면 순수 Shue
-    #    r0 = pause 노즈 = pause_radius/comp,  L = 꼬리 = pause_radius/ext,  α = log2(comp)
-    #    (레거시 환산은 방법론 Part C. 보드가 ⚗ pause_nose/alpha/tail을 들고 있으면 그 값 우선)
-    if pause and pause.get('on',True):
+    #    α 는 '적합된 값이 있을 때만' 그린다 — pause_compression 환산은 적합이 아니라 저작값이라
+    #    자이언트에 쓰면 없는 숫자를 만들어 낸다(방법론 Part C 의 α 표 참조).
+    if pause and pause.get('on',True) and pause.get('shue_alpha'):
         comp = pause.get('comp',1.0)
         r0 = pause.get('shue_nose', pause['rad']/comp)
-        al = pause.get('shue_alpha', np.log2(comp) if comp>1.001 else 0.58)
+        al = pause['shue_alpha']
         Ltail = pause.get('shue_tail', pause['rad']/max(pause.get('ext',1.0),1e-3))
         if r0>0.3 and al>0.05:
             if Ltail > r0*1.05:
@@ -95,17 +95,19 @@ def render(body, out, size=1120, z=0.0):
                 eps = 0.0
                 th = np.radians(np.linspace(-150,150,401))
                 rr_ = r0*(2.0/(1.0+np.cos(th)))**al
-            px = c + rr_*np.cos(th)*ppr; py = c - rr_*np.sin(th)*ppr
+            # 계면 SDF 와 같은 원점에서 그린다 — geomagnetic_offset 은 이 프레임(자전축)에서도 적용된다
+            px = c + rr_*np.cos(th)*ppr; py = c - (rr_*np.sin(th) + off)*ppr
             for i in range(0,len(px)-1,2):          # 파선: 두 칸 그리고 한 칸 띄움
                 if (i//2) % 3 == 2: continue
                 if max(abs(px[i]),abs(py[i]),abs(px[i+1]),abs(py[i+1])) > 4*size: continue
                 dr.line([px[i],py[i],px[i+1],py[i+1]],fill=(255,154,82),width=S(2))
-            dr.ellipse([c+r0*ppr-S(3),c-S(3),c+r0*ppr+S(3),c+S(3)],fill=(255,154,82))
+            oy = c - off*ppr
+            dr.ellipse([c+r0*ppr-S(3),oy-S(3),c+r0*ppr+S(3),oy+S(3)],fill=(255,154,82))
             lbl=f"Shue r0 {r0:.1f} α {al:.2f}"
             lw=dr.textlength(lbl,font=fnt)
             lx=c+r0*ppr+S(6)
             if lx+lw > size-S(6): lx=c+r0*ppr-S(6)-lw               # 프레임 밖으로 나가면 왼쪽에
-            dr.text((max(lx,S(4)),c-S(16)),lbl,fill=(255,154,82),font=fnt)
+            dr.text((max(lx,S(4)),oy-S(16)),lbl,fill=(255,154,82),font=fnt)
     dr.text((S(10),S(8)),body['title'],fill=(230,235,245),font=fbig)
     dr.text((S(10),S(30)),body.get('sub',''),fill=(140,160,190),font=fnt)
     dr.text((size-S(96),size-S(20)),"☀ star →",fill=(255,154,82),font=fnt)

diff --git a/scripts/viz/build_belt_viewer.py b/scripts/viz/build_belt_viewer.py
@@ -29,7 +29,10 @@ OFF_BELT = {'on': False, 'radiation': 0, 'dist': 1, 'rad': 0.5}
 SHUE_GROUNDED = {
     # body: (α, nose r0, tail L, 출처)
     'earth': (0.58, 10, 200, 'Shue 1998'),
-    'mercury': (0.5, 1.45, 0, 'Winslow 2013 (MESSENGER, Shue 형식 적합: R_ss 1.45 R_M, α 0.5)'),
+    'mercury': (0.5, 1.45, 0, 'Winslow 2013 (MESSENGER 통과 적합: R_ss 1.45 R_M, α 0.5)'),
+    # 목성: Rutala 2025 의 S97* 적합. α = 0.28 + 1.08·p_SW, r_SS = 38.0·p_SW^-0.25 [R_J].
+    # 우리 프리셋 노즈 63 R_J(Joy 2002 압축 상태)를 그 r_SS 관계에 넣으면 p_SW 0.132 nPa → α 0.423.
+    'jupiter': (0.423, 63, 0, 'Rutala 2025 S97* (α=0.28+1.08·p_SW, 노즈 63 R_J ⇒ p 0.132 nPa)'),
 }
 
 

diff --git a/docs/reference/planetary-magnetosphere-geometry-methodology.md b/docs/reference/planetary-magnetosphere-geometry-methodology.md
@@ -477,14 +477,30 @@ free: `α = log₂(compression)`, `r0 = pause_radius / compression`,
 `L = pause_radius / extension`. It is shape-faithful for Earth-style configs only —
 RSS Jupiter's `compression` 1.05 converts to α 0.07, an unphysically spherical
 dayside, so giants need α re-tuned after conversion rather than converted blindly.
-The deeper reason is that **giant magnetopauses are not fitted in the Shue form at
-all**: Jupiter's is a pressure-parameterized polynomial (Joy 2002,
-[`2002JGRA..107.1309J`](https://ui.adsabs.harvard.edu/abs/2002JGRA..107.1309J)) and Saturn's a Newtonian pressure-balance shape
-(Kanani 2010, [`2010JGRA..115.6207K`](https://ui.adsabs.harvard.edu/abs/2010JGRA..115.6207K); Achilleos 2008,
-[`2008JGRA..11311209A`](https://ui.adsabs.harvard.edu/abs/2008JGRA..11311209A)), so converting a cfg compression into an α there
-manufactures a number nobody measured. Where a Shue-form α *does* exist, use it:
-Earth 0.58 (Shue 1998) and Mercury **0.5** with `R_ss` 1.45 R_M, fitted to
-MESSENGER crossings (Winslow 2013, [`2013JGRA..118.2213W`](https://ui.adsabs.harvard.edu/abs/2013JGRA..118.2213W)).
+(An earlier revision of this paragraph claimed giant magnetopauses are never
+fitted in the Shue form. That was wrong and is retracted — see the fitted α table
+below.)
+
+**Fitted α by body.** Use a published α wherever one exists; only fall back to the
+compression conversion when none does, and say so.
+
+| Body | α | Source |
+|---|---|---|
+| Earth | 0.58 (quiet wind; Dp/Bz-dependent) | Shue 1998, [`1998JGR...10317691S`](https://ui.adsabs.harvard.edu/abs/1998JGR...10317691S) |
+| Mercury | **0.5**, `R_ss` 1.45 R_M | Winslow 2013, [`2013JGRA..118.2213W`](https://ui.adsabs.harvard.edu/abs/2013JGRA..118.2213W) — MESSENGER crossings fitted in exactly this form |
+| Jupiter | **α = 0.28 + 1.08·p_SW** (nPa), with `r_SS = 38.0·p_SW^−0.25` R_J → 0.31–0.42 across the observed pressure range | Rutala 2025, [`2025JGRA..13033842R`](https://ui.adsabs.harvard.edu/abs/2025JGRA..13033842R) / [2502.09186](https://arxiv.org/abs/2502.09186), their "S97*" form, Table 2 |
+| Saturn | Shue-form fit exists; flaring **decreases** with rising Dp, size ∝ Dp^−1/4.3 | Arridge 2006, [`2006JGRA..11111227A`](https://ui.adsabs.harvard.edu/abs/2006JGRA..11111227A) — coefficients are in the paywalled text, not yet pulled |
+| Uranus, Neptune | no Shue-form fit found | — |
+
+The instructive part is the *direction*: Jupiter's flaring is **smaller** than
+Earth's (0.31–0.42 against 0.58), because a rotation-dominated, plasma-inflated
+magnetosphere sits closer to an axisymmetric ellipsoid than Earth's does. So a
+giant α below Earth's is not the error — reading it off `pause_compression` is,
+since that number is an authoring choice with no fit behind it. Jupiter's older
+polynomial model (Joy 2002, [`2002JGRA..107.1309J`](https://ui.adsabs.harvard.edu/abs/2002JGRA..107.1309J)) and Saturn's
+pressure-balance shape (Kanani 2010, [`2010JGRA..115.6207K`](https://ui.adsabs.harvard.edu/abs/2010JGRA..115.6207K); Achilleos 2008,
+[`2008JGRA..11311209A`](https://ui.adsabs.harvard.edu/abs/2008JGRA..11311209A)) remain the alternatives where a Shue-form α is not
+wanted.
 
 **`pause_offset`** is the cheap fallback if the full Shue mode is rejected: shift
 the sphere centre tailward before the scaling (`p.x += pause_offset`), which fixes
